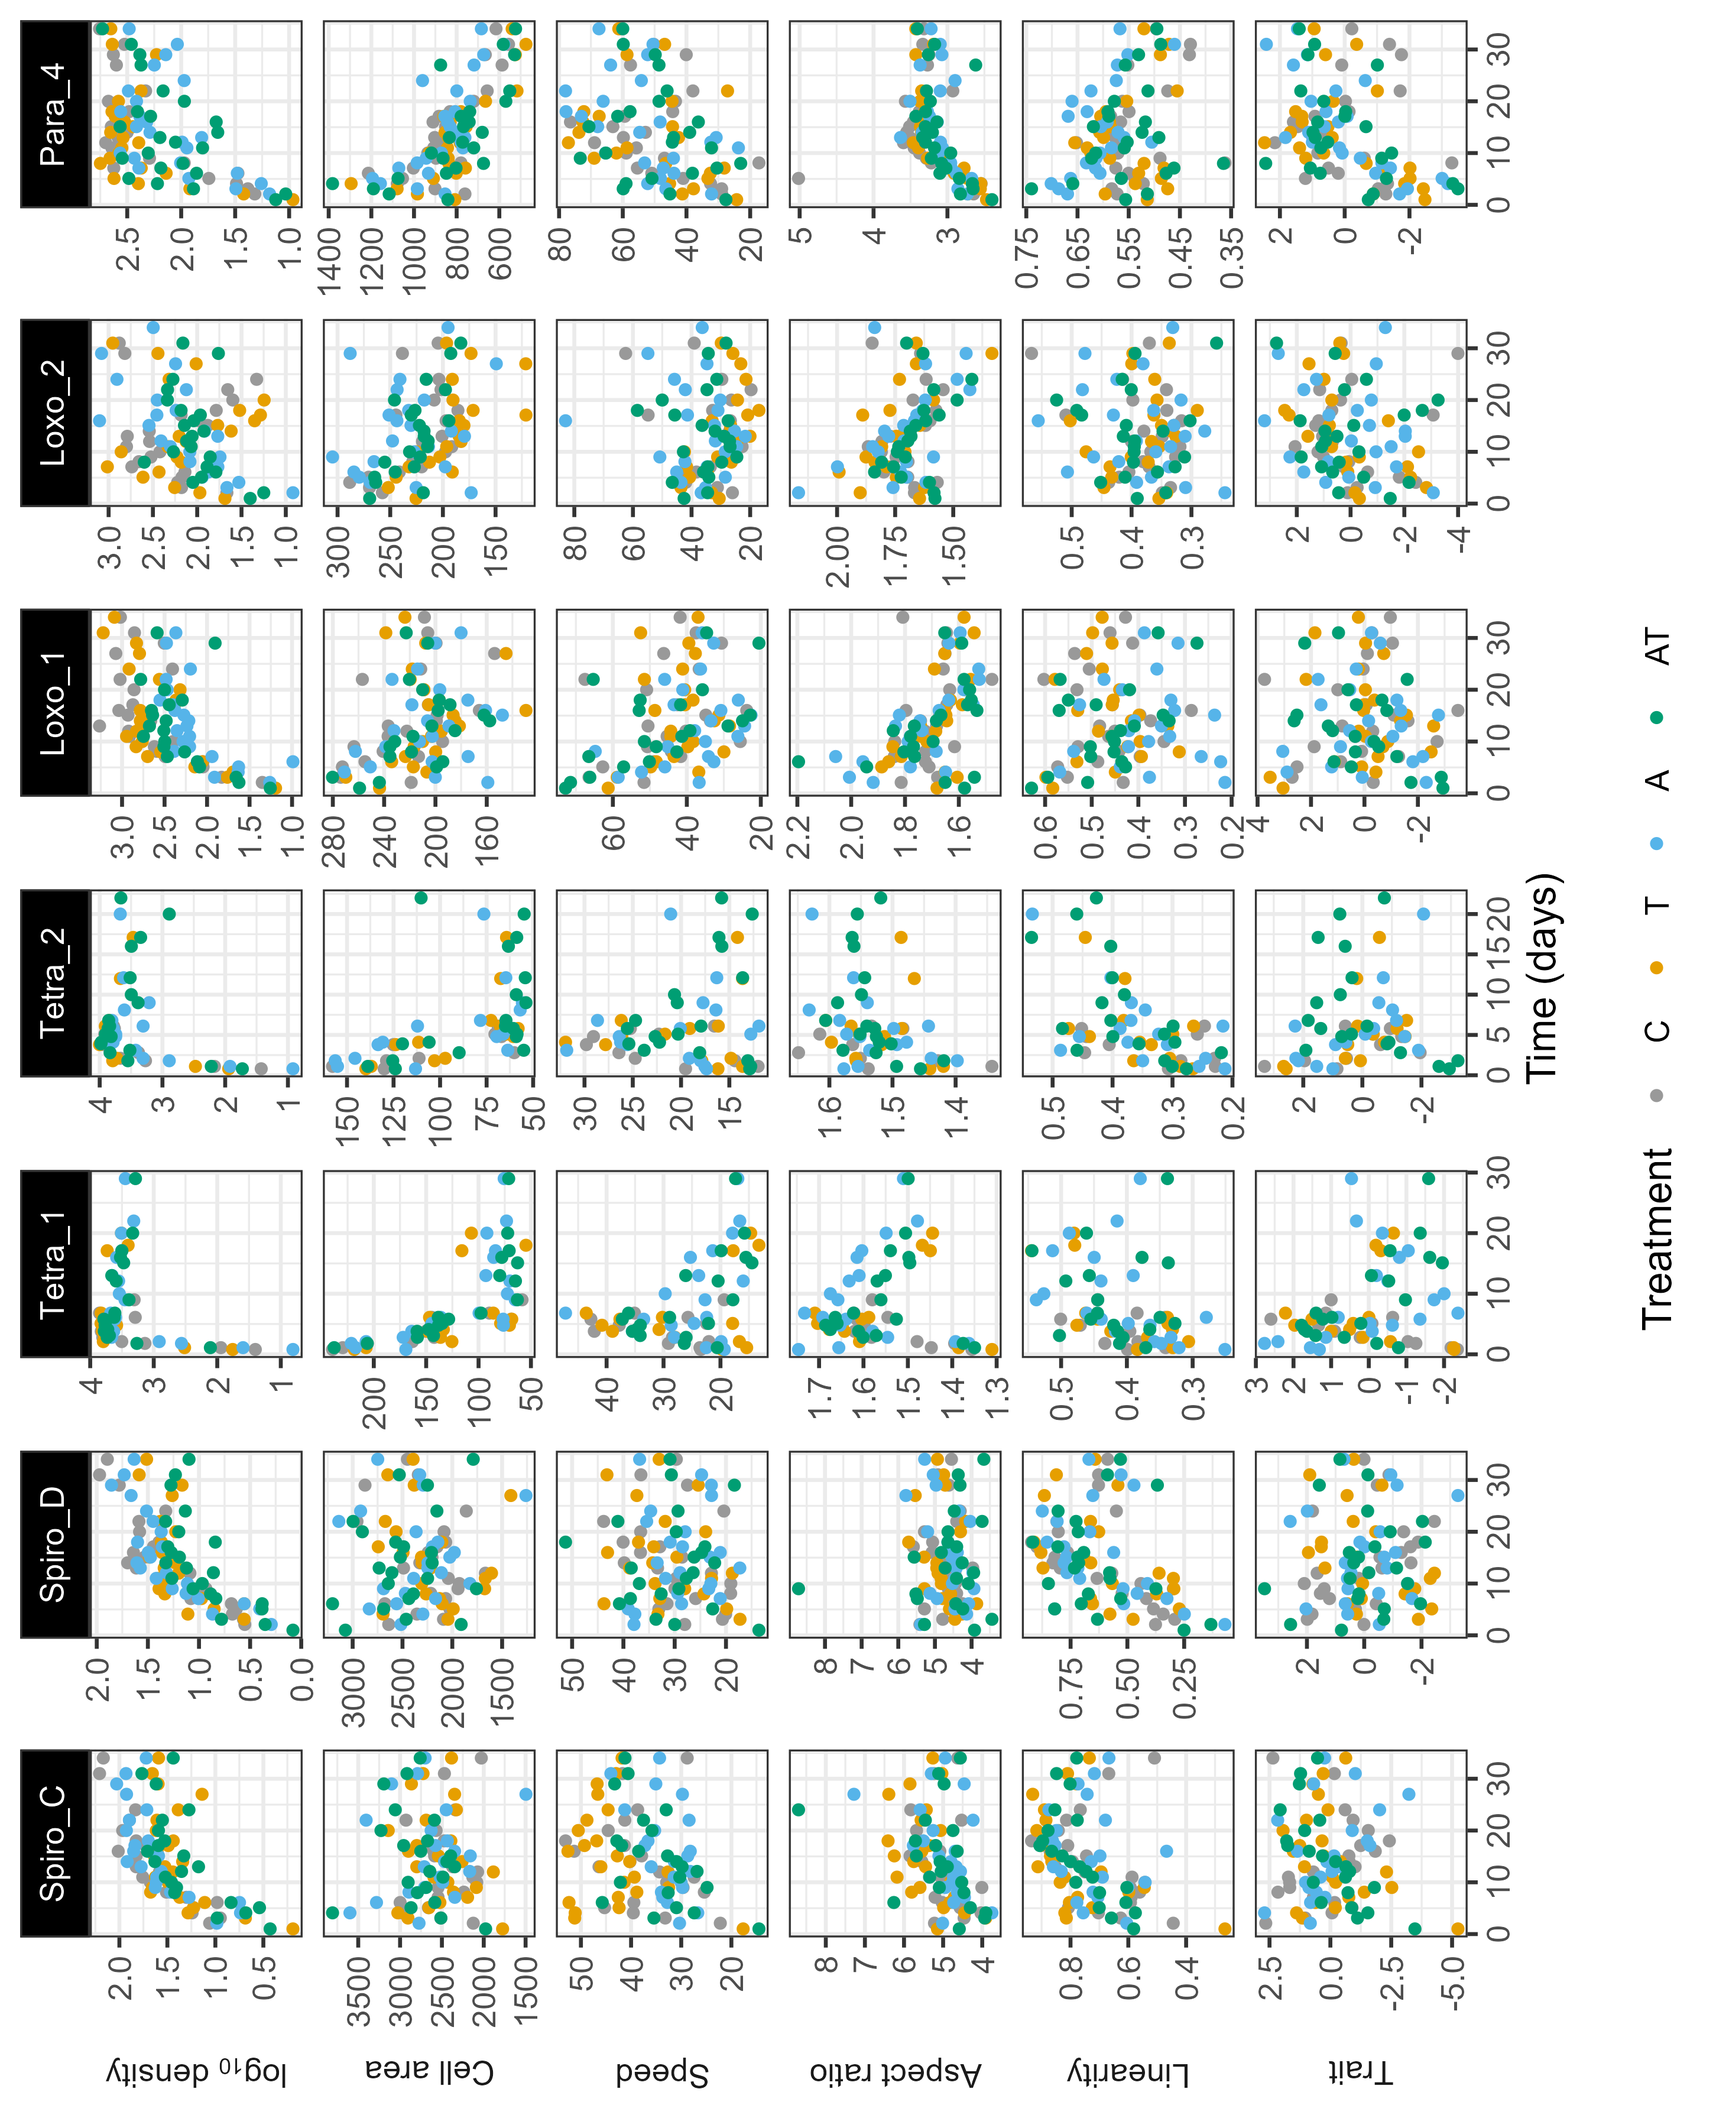
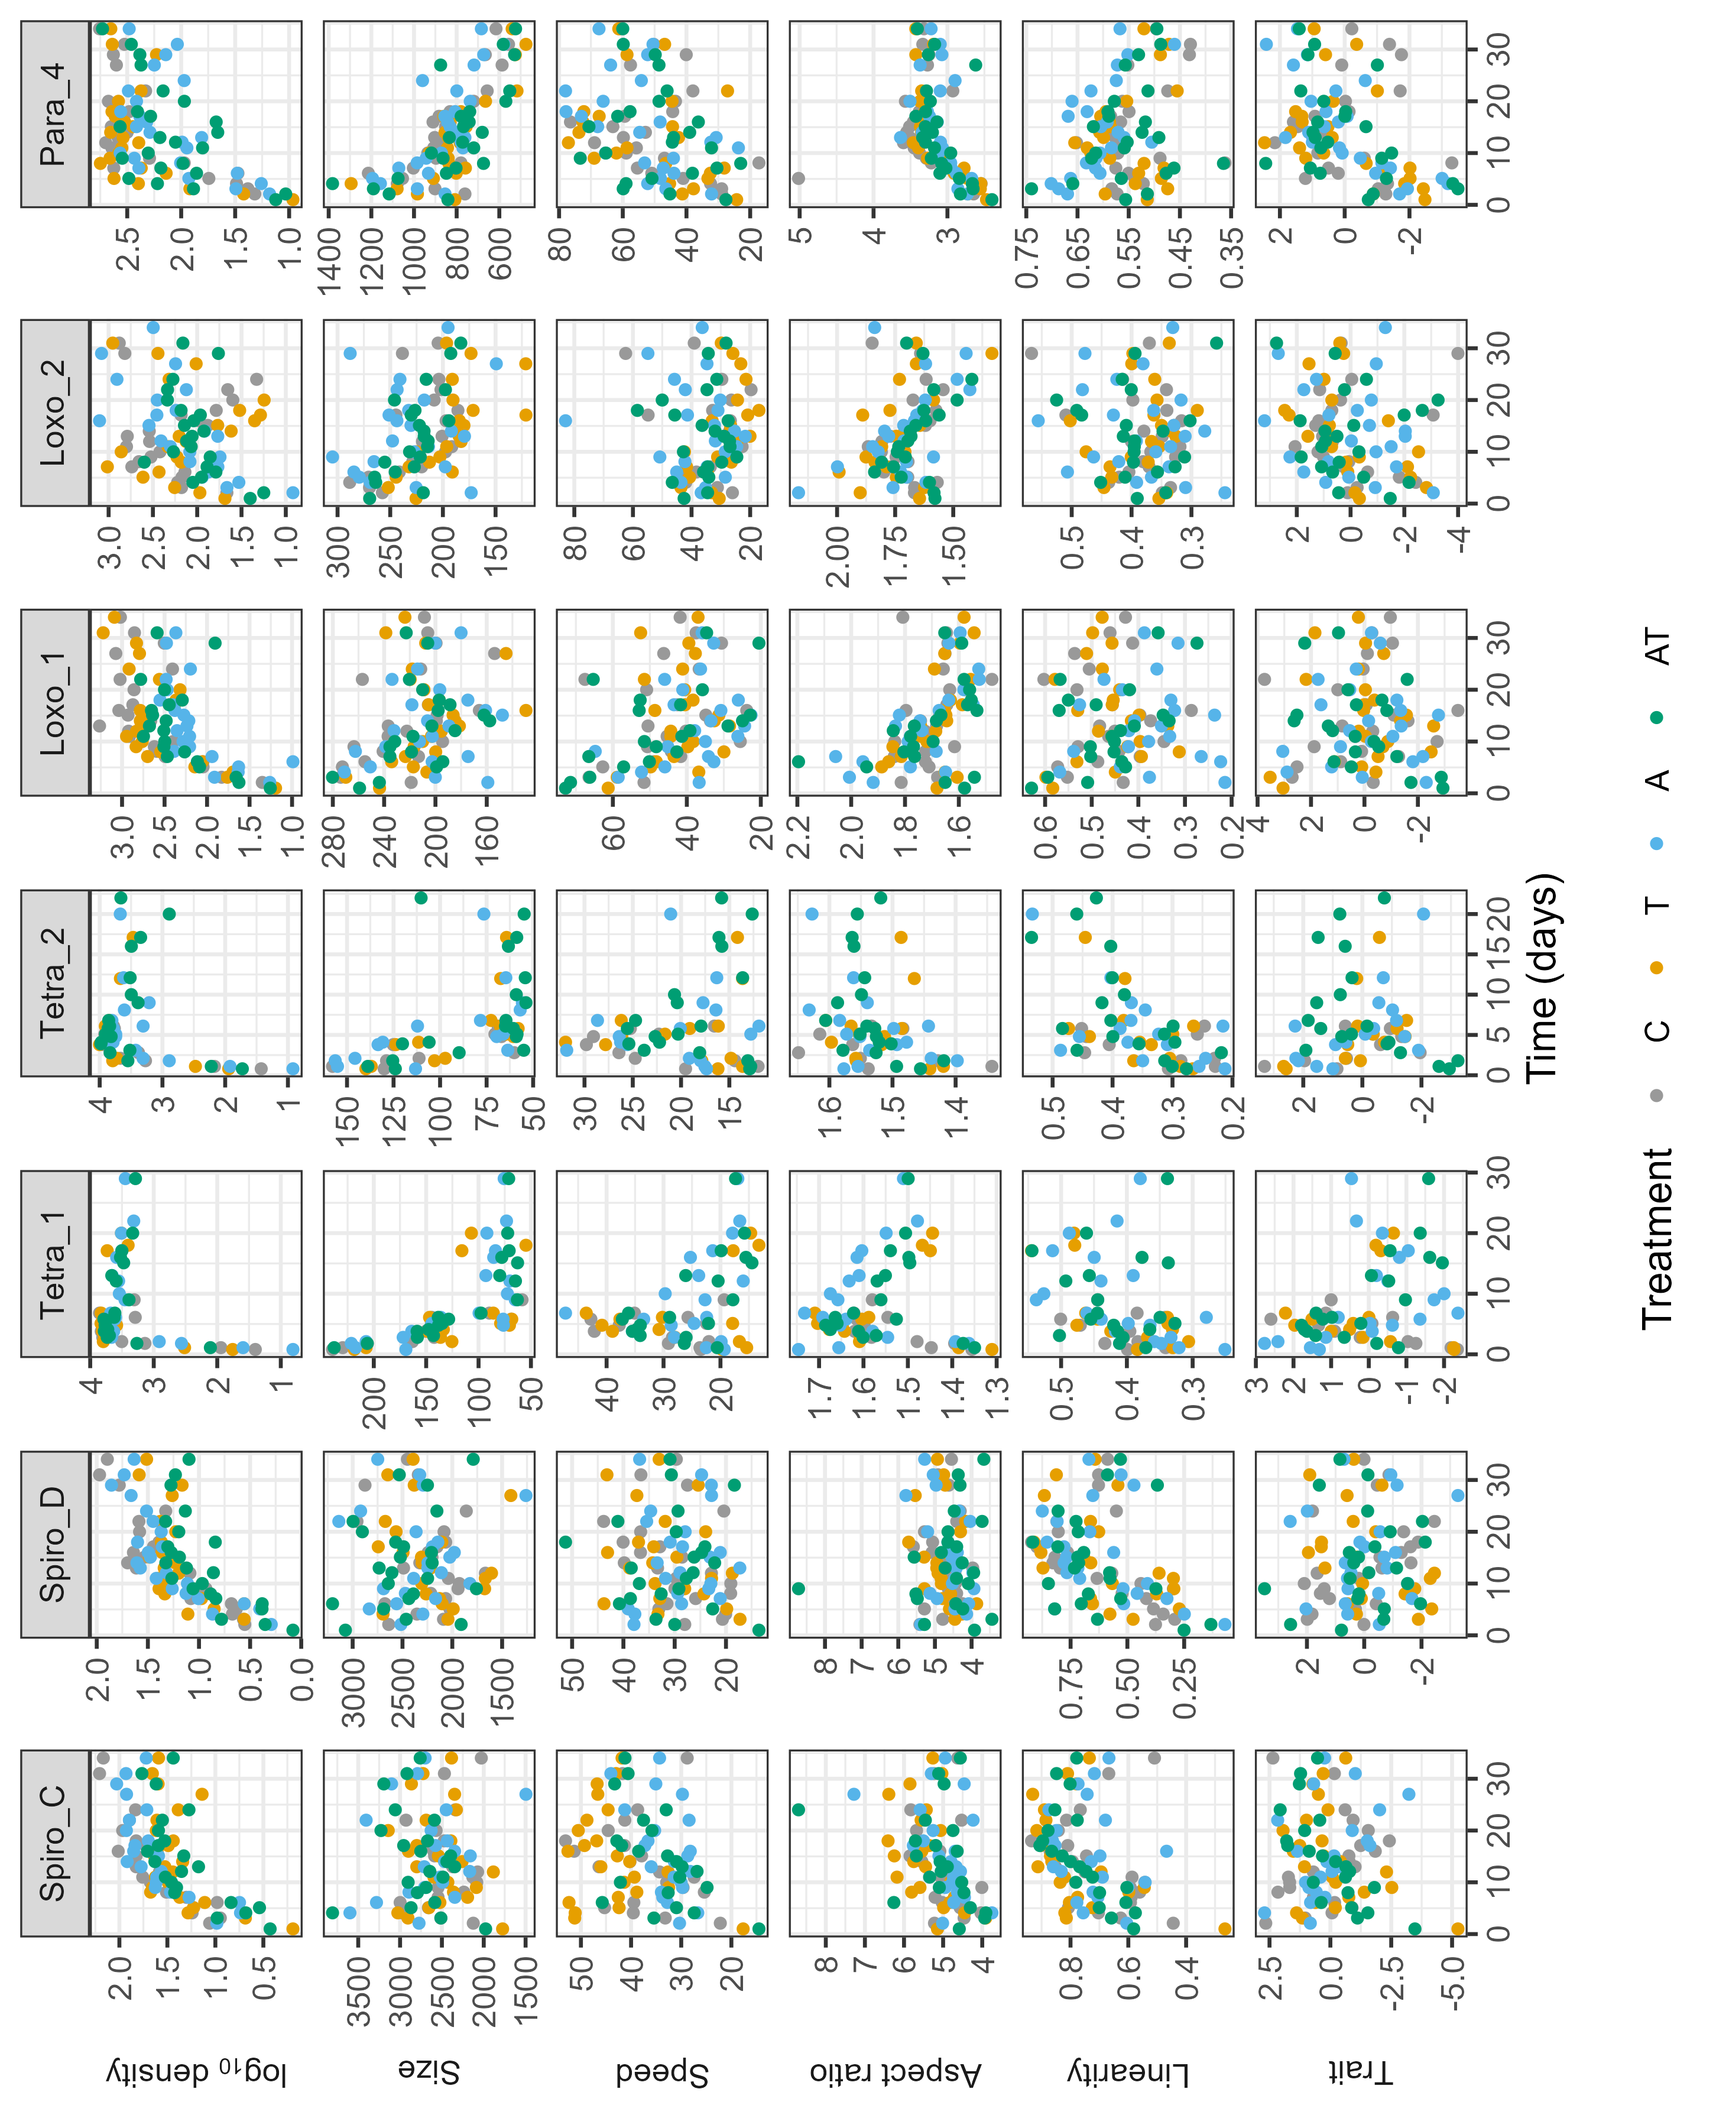
updated plots

diff --git a/main.tex b/main.tex
@@ -224,18 +224,18 @@ Schtickzelle \and Frederik De Laender}
 \textbf{Abstract:} Understanding the factors that influence population
 dynamics across environmental contexts is essential to predict
 ecological stability. Functional traits influence population growth,
-which can in turn influence traits and thus create a feedback between
-population and trait dynamics. We analysed the reciprocal connections
-between population and trait dynamics in two microbial systems (one
-autotrophic and one heterotrophic system) and across a range of
-environmental conditions. When augmenting models of population (trait)
-dynamics with trait (population density) data, we found no consistent
-improvement of predictive capacity: this improvement was environment-
-and system-dependent. Notably, in the cyanobacteria system, models
-augmented with population density did predict trait dynamics better. In
-addition, when augmented models were superior, the improvement was
-substantial. Further investigation of the environmental dependence of
-trait-growth relationships is recommended.
+which can in turn influence the traits and thus create a feedback
+between population and trait dynamics. We analysed the reciprocal
+relationship between population and trait dynamics in two microbial
+systems (one autotrophic and one heterotrophic system) and across a
+range of environmental conditions. When augmenting models of population
+(trait) dynamics with trait (population density) data, we found no
+consistent improvement of predictive capacity: this improvement was
+environment- and system-dependent. Notably, in the cyanobacteria system,
+models augmented with population density did predict trait dynamics
+better. In addition, when augmented models were superior, the
+improvement was substantial. Further investigation of the environmental
+dependence of trait-growth relationships is recommended.
 \end{abstract}
 \subsection{Introduction}\label{sec-DAE_introduction}
 
@@ -355,10 +355,11 @@ picocyanobacteria genus \emph{Synechococcus}
 (\citeproc{ref-Farrant2016}{Farrant et al. 2016};
 \citeproc{ref-Grebert2018}{Grébert et al. 2018};
 \citeproc{ref-Sohm2016}{Sohm et al. 2016}). The ciliate genera are
-globally-distributed freshwater mixotrophs
+globally-distributed freshwater mixotrophs and represent an important
+ecological link between primary producers and higher trophic levels
 (\citeproc{ref-Weisse2022}{Weisse and Montagnes 2022};
-\citeproc{ref-Lu2021}{Lu, Gao, and Weisse 2021}) and
-\emph{Synechococcus} makes up a substantial proportion of marine
+\citeproc{ref-Lu2021}{Lu, Gao, and Weisse 2021}). The
+\emph{Synechococcus} genus makes up a substantial proportion of marine
 phytoplankton biomass and photosynthesis
 (\citeproc{ref-Dvorak2014}{Dvořák et al. 2014}). Both study systems
 harbor considerable diversity, as the freshwater ciliates span several
@@ -367,7 +368,9 @@ order-level diversity, while, however, being less well-defined
 phylogenetically due to the frequency of horizontal gene transfer events
 (\citeproc{ref-Salazar2020}{\textbf{Salazar2020?}};
 \citeproc{ref-Dvorak2015}{Dvořák et al. 2015};
-\citeproc{ref-Zhaxybayeva2006}{Zhaxybayeva et al. 2006}).
+\citeproc{ref-Zhaxybayeva2006}{Zhaxybayeva et al. 2006}). Both taxa are
+commonly-used as model organisms in experiments due to their rapid
+growth and relative simplicity.
 
 The ciliate strains selected exhibit substantial diversity in their
 functional traits and demography - \emph{Spirostomum} is a large,
@@ -611,8 +614,8 @@ densities an order of magnitude greater than the others.
 
 \caption{\label{fig-cilia_pop_traits_time}Log-transformed populations
 and trait changes over time for the ciliate system. The traits show the
-mean values in the sampled population at each time point. Cell area
-indicates the top-down area in \textmu\(\mathrm{m}^{-2}\). Speed
+mean values in the sampled population at each time point. Size indicates
+the top-down area of the cell in \textmu\(\mathrm{m}^{-2}\). Speed
 indicates the average movement speed in \textmu\(\mathrm{m \, s}^{-1}\).
 Aspect ratio is the ratio of the longest cell dimension relative to the
 shortest. Linearity indicates the cell movement linearity i.e.~a value
@@ -943,16 +946,16 @@ approximate cell division rates of once per hour and once per day for
 the ciliate and cyanobacteria systems, repectively,
 (\citeproc{ref-DeLong2009}{\textbf{DeLong2009?}};
 \citeproc{ref-Binder1995}{\textbf{Binder1995?}}) and accounting for
-experiment length (\(\leq 30\) days and \(10\) days), average population
-size (\(8.92 \times 10^{2}\) and \(2.38 \times 10^{4}\) cells), and
+experiment length (\(\leq 37\) days and \(10\) days), average population
+density (\(1.04 \times 10^{3}\) and \(2.23 \times 10^{7}\) cells), and
 microcosm volumes (100 mL and 6 mL) gives the number of cell divisions
-between \(9.6 \times 10^6\) and \(9.6 \times 10^8\) for the ciliate
-system and \(6 \times 10^7\) and \(2.1 \times 10^{10}\) for the
-cyanobacteria system. Therefore, we may expect that the cyanobacteria
-system possessed greater potential for evolution during the course of
-the experiment, as it is likely that more cell division events took
-place. This increased likelihood of mutation events have resulted in
-more prominent eco-evolutionary dynamics in the cyanobacteria system.
+as \(9.20 \times 10^{7}\) for the ciliate system and
+\(1.34 \times 10^{9}\) for the cyanobacteria system. Therefore, we may
+expect that the cyanobacteria system possessed somewhat greater
+potential for evolution during the course of the experiment, as it is
+likely that more cell division events took place. This increased
+likelihood of mutation events have resulted in more prominent
+eco-evolutionary dynamics in the cyanobacteria system.
 
 Alternative model-fitting approaches such as autoregressive models may
 also be used to determine the co-dependence of populations and traits.
